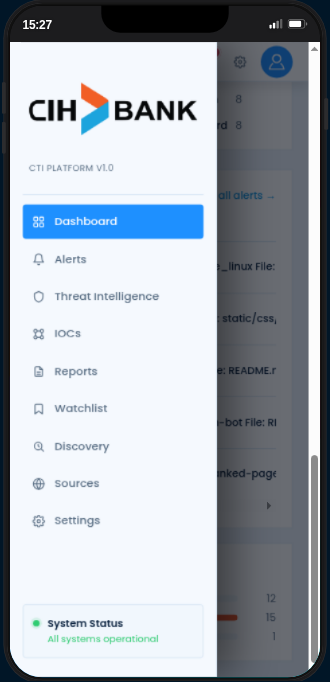
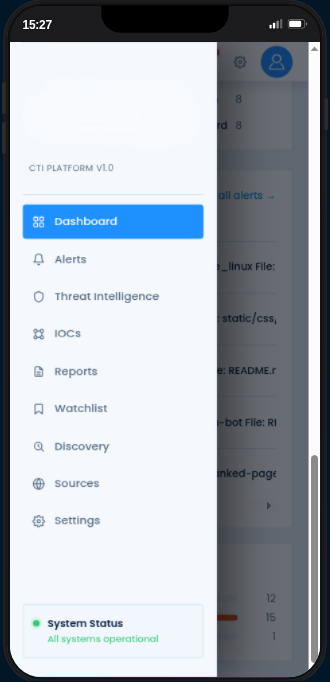
updated images

Changed region(s): [[0.0909, 0.1232, 0.6061, 0.2155]]

diff --git a/README.md b/README.md
@@ -1,6 +1,6 @@
 <div align="center">
 
-# 🛡 CIH Bank CTI Platform
+# 🛡 CTI Platform
 
 **A Cyber Threat Intelligence (CTI) and OSINT automation platform for monitoring, collecting, analyzing, and correlating threat data.**
 
